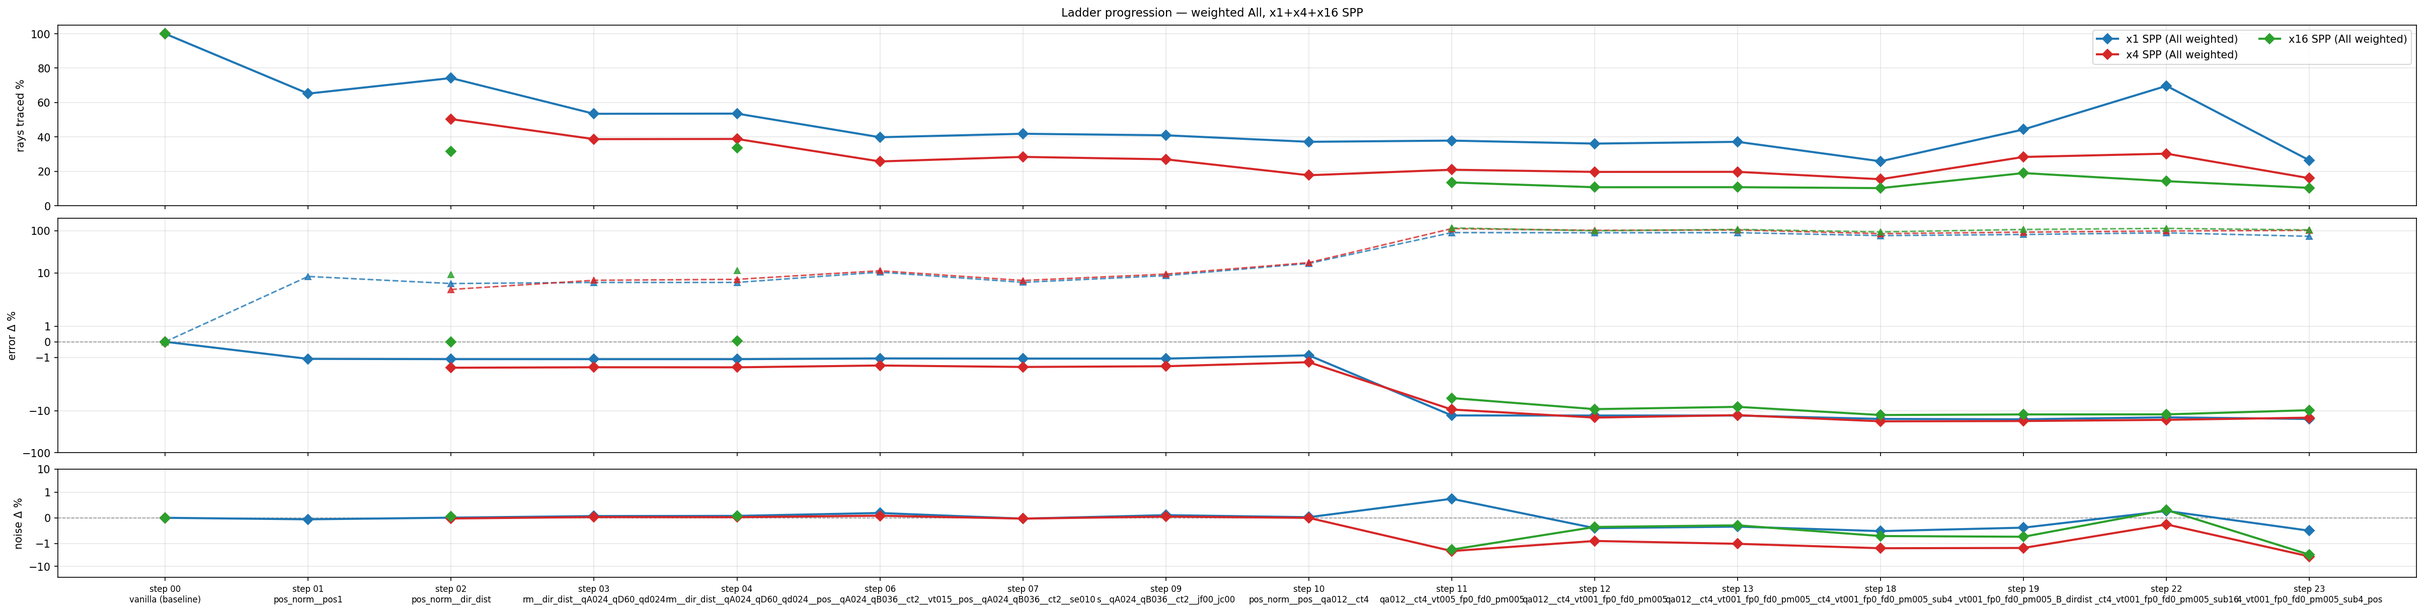
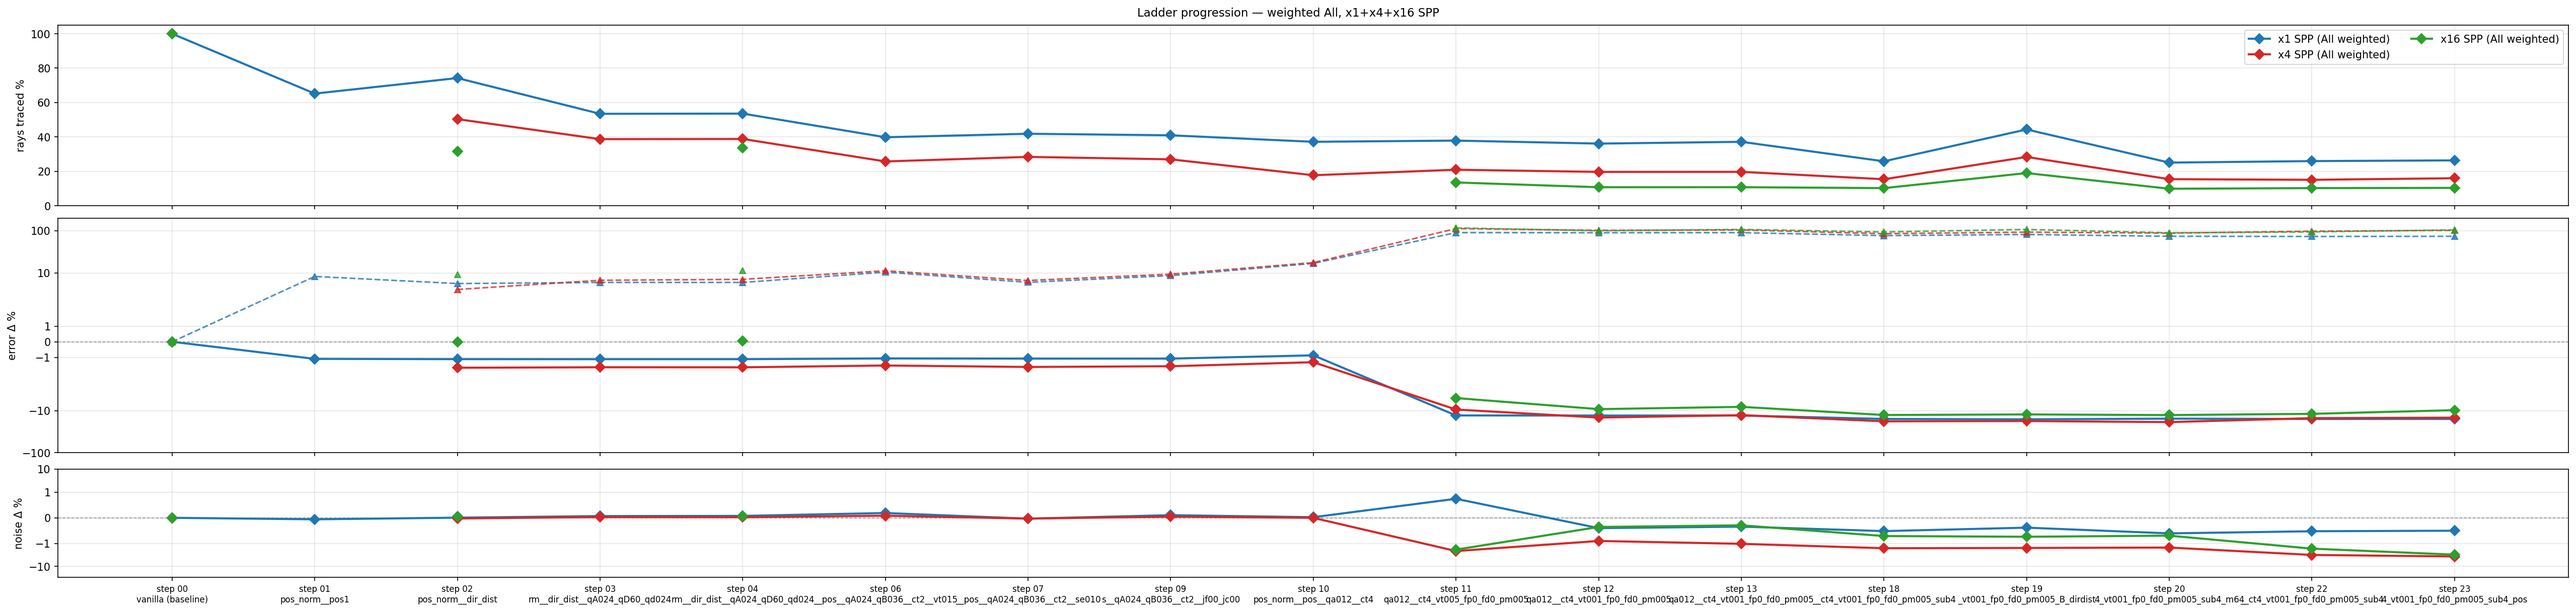
Step 20 matureThreshold no-op + step 21 fix to use sub4 carry
Step 20: matureThreshold sweep (m32/m64/m128/m512) at step-22 sub4
carry. All four values produce near-identical blob/err/rays on all 7
scenes. Mechanism: under multi-frame sample budget, cells rarely reach
32+ samples per run, so the freeze gate never fires. Keep m128.

Step 21: fixed to inherit from step 22 (sub4) instead of step 12
(sub2); adds subframeN=4 to each variant. Also fixed step 20 'm' loop
variable collision with Mogwai's global 'm' renderer handle.

diff --git a/scripts/VisCache_Ladder20.py b/scripts/VisCache_Ladder20.py
@@ -28,9 +28,9 @@ from VisCache_LadderCommon import run_variants, run_baseline, get_scenes, \
 STEP = "20"
 res = int(os.environ.get("RES", "512"))
 
-INHERITED_NAME = read_carried_winner("12")
+INHERITED_NAME = read_carried_winner("22") or read_carried_winner("18") or read_carried_winner("12")
 if INHERITED_NAME is None:
-    raise RuntimeError("[20] step 12 picks.json missing.")
+    raise RuntimeError("[20] need step 22/18/12 picks.json")
 
 _qa_tag = None
 for tok in INHERITED_NAME.split("__"):
@@ -58,12 +58,12 @@ MATURE_SWEEP = [("m32", 32), ("m64", 64), ("m128", 128), ("m512", 512)]
 
 VARIANTS_20 = []
 for (name, base_overrides) in BASE_20:
-    for (suffix, m) in MATURE_SWEEP:
-        VARIANTS_20.append((f"{name}__ct{CT_INH}_vt{int(round(VT_INH*100)):03d}_fp0_fd0_pm{int(round(PM_INH*100)):03d}_{suffix}", {
+    for (suffix, _mt) in MATURE_SWEEP:
+        VARIANTS_20.append((f"{name}__ct{CT_INH}_vt{int(round(VT_INH*100)):03d}_fp0_fd0_pm{int(round(PM_INH*100)):03d}_sub4_{suffix}", {
             **base_overrides,
             **NO_JITTER,
             "bootThreshold":                 CT_INH,
-            "matureThreshold":               m,
+            "matureThreshold":               _mt,
             "varThreshold":                  VT_INH,
             "bootThresholdFactorFootprintPx": 0.0,
             "forceDescendFootprintPx":       0,
@@ -71,9 +71,10 @@ for (name, base_overrides) in BASE_20:
             "enableHierarchicalConsistency": False,
             "accelDecayDisagreeThresh":      0.0,
             "pMin":                          PM_INH,
+            "subframeN":                     4,  # step-18 carry is sub4
         }))
 
-STEP_OVERRIDES = {**RR_ADAPTIVE, **LEVELS_MULTI, **SUBFRAME_2x2,
+STEP_OVERRIDES = {**RR_ADAPTIVE, **LEVELS_MULTI,
                   "tableCapacity": 1 << 25}
 
 MF_CONFIGS = [(1, 0, 1, 1),  (1, 0, 4, 1),  (1, 0, 16, 1),

diff --git a/scripts/VisCache_Ladder21.py b/scripts/VisCache_Ladder21.py
@@ -38,9 +38,9 @@ from VisCache_LadderCommon import run_variants, run_baseline, get_scenes, \
 STEP = "21"
 res = int(os.environ.get("RES", "512"))
 
-INHERITED_NAME = read_carried_winner("12")
+INHERITED_NAME = read_carried_winner("22") or read_carried_winner("18") or read_carried_winner("12")
 if INHERITED_NAME is None:
-    raise RuntimeError("[21] step 12 picks.json missing.")
+    raise RuntimeError("[21] need step 22/18/12 picks.json")
 
 _qa_tag = None
 for tok in INHERITED_NAME.split("__"):
@@ -69,7 +69,7 @@ FB_SWEEP = [("fb001", 0.01), ("fb005", 0.05), ("fb010", 0.10), ("fb020", 0.20)]
 VARIANTS_21 = []
 for (name, base_overrides) in BASE_21:
     for (suffix, fb) in FB_SWEEP:
-        VARIANTS_21.append((f"{name}__ct{CT_INH}_vt{int(round(VT_INH*100)):03d}_fp0_fd0_pm{int(round(PM_INH*100)):03d}_{suffix}", {
+        VARIANTS_21.append((f"{name}__ct{CT_INH}_vt{int(round(VT_INH*100)):03d}_fp0_fd0_pm{int(round(PM_INH*100)):03d}_sub4_{suffix}", {
             **base_overrides,
             **NO_JITTER,
             "bootThreshold":                 CT_INH,
@@ -82,9 +82,10 @@ for (name, base_overrides) in BASE_21:
             "accelDecayDisagreeThresh":      0.0,
             "pMin":                          PM_INH,
             "fireflyBudget":                 fb,
+            "subframeN":                     4,  # step-18 carry is sub4
         }))
 
-STEP_OVERRIDES = {**RR_ADAPTIVE, **LEVELS_MULTI, **SUBFRAME_2x2,
+STEP_OVERRIDES = {**RR_ADAPTIVE, **LEVELS_MULTI,
                   "tableCapacity": 1 << 25}
 
 MF_CONFIGS = [(1, 0, 1, 1),  (1, 0, 4, 1),  (1, 0, 16, 1),
